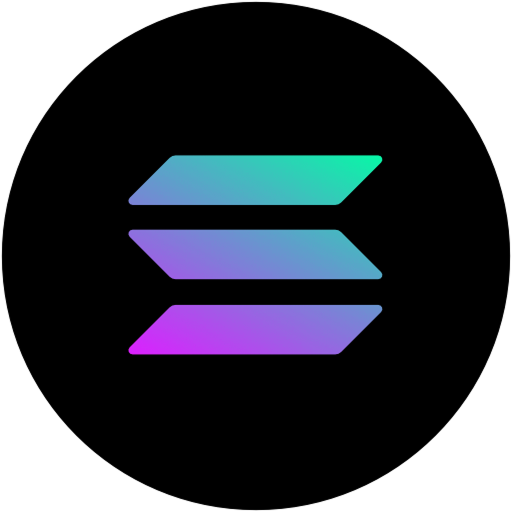
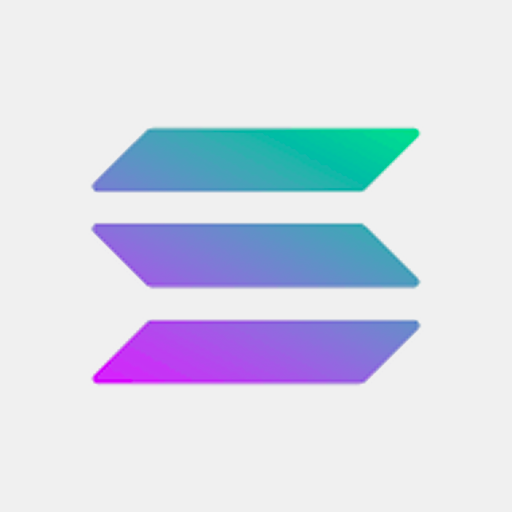
feat: enhance footer and change sol png

diff --git a/apps/web/components/landing/footer-link.tsx b/apps/web/components/landing/footer-link.tsx
@@ -16,8 +16,39 @@ const FooterLink: React.FC<FooterLinkProps> = ({
   showArrow = false,
   arrowClassName,
   onClick,
+  href,
   ...props
 }) => {
+  // Check if the link is external (starts with http:// or https://)
+  const isExternal = typeof href === 'string' && (href.startsWith('http://') || href.startsWith('https://'));
+
+  // If it's an external link, render as a regular anchor tag
+  if (isExternal) {
+    return (
+      <a
+        href={href}
+        target="_blank"
+        rel="noopener noreferrer"
+        className={cn(
+          'group inline-flex items-center gap-2 text-black text-[13px] font-medium font-["InterMedium"] leading-[16px] hover:text-cherry-bright hover:font-bold transition-colors',
+          className,
+        )}
+        onClick={onClick}
+        {...props}
+      >
+        {children}
+        {showArrow && (
+          <ArrowUpRight
+            width={16}
+            height={16}
+            className={cn('text-cherry-bright group-hover:stroke-[3.5] transition-all', arrowClassName)}
+          />
+        )}
+      </a>
+    );
+  }
+
+  // For internal links, use Next.js Link component
   return (
     <Link
       className={cn(
@@ -25,6 +56,7 @@ const FooterLink: React.FC<FooterLinkProps> = ({
         className,
       )}
       onClick={onClick}
+      href={href}
       {...props}
     >
       {children}

diff --git a/apps/web/components/landing/section3.tsx b/apps/web/components/landing/section3.tsx
@@ -26,7 +26,12 @@ const Section3 = () => {
         Assets for all tastes. Solved at leading rates.
       </Label>
       <div className="mt-4 z-10">
-        <Button variant="outline" className="px-6 font-['InterMedium'] cursor-pointer" size="lg">
+        <Button
+          variant="outline"
+          className="px-6 font-['InterMedium'] cursor-pointer"
+          size="lg"
+          onClick={() => window.open('https://x.com/gosodax', '_blank')}
+        >
           Follow X for launch
         </Button>
       </div>

diff --git a/apps/web/components/landing/section2.tsx b/apps/web/components/landing/section2.tsx
@@ -35,7 +35,12 @@ const Section2 = () => {
         More freedom. Poured at 2% interest.
       </Label>
       <div className="mt-6 z-10">
-        <Button variant="outline" className="px-6 font-['InterMedium'] cursor-pointer" size="lg">
+        <Button
+          variant="outline"
+          className="px-6 font-['InterMedium'] cursor-pointer"
+          size="lg"
+          onClick={() => window.open('https://x.com/gosodax', '_blank')}
+        >
           Follow X for launch
         </Button>
       </div>

diff --git a/apps/web/components/landing/section1.tsx b/apps/web/components/landing/section1.tsx
@@ -29,7 +29,12 @@ const Section1 = () => {
         Supply for a fully carbonated future.
       </Label>
       <div className="mt-4">
-        <Button variant="outline" className="px-6 font-['InterMedium'] cursor-pointer" size="lg">
+        <Button
+          variant="outline"
+          className="px-6 font-['InterMedium'] cursor-pointer"
+          size="lg"
+          onClick={() => window.open('https://x.com/gosodax', '_blank')}
+        >
           Follow X for launch
         </Button>
       </div>
